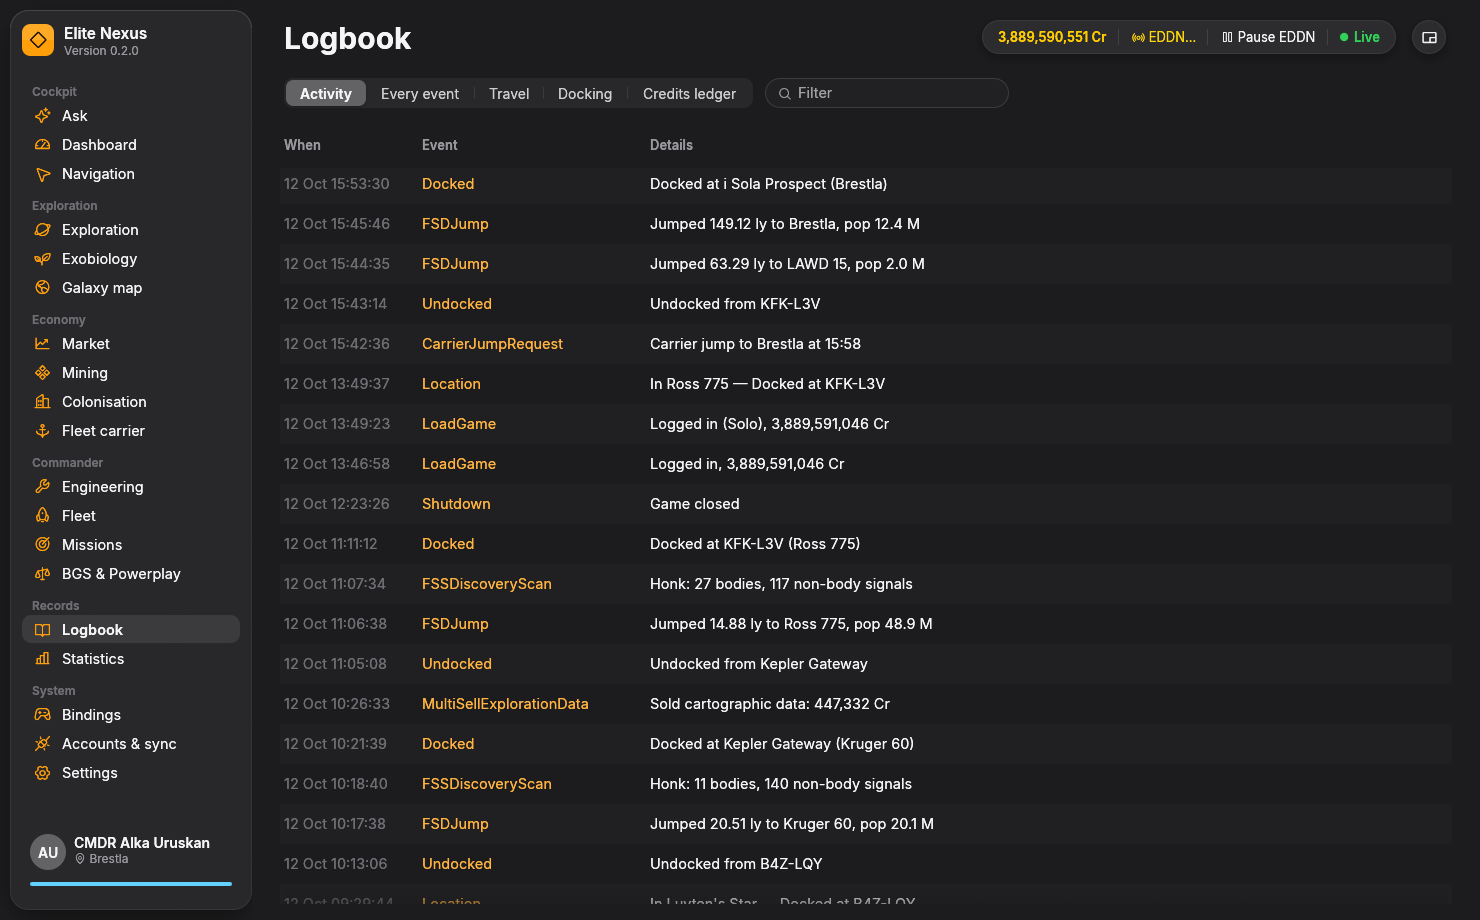
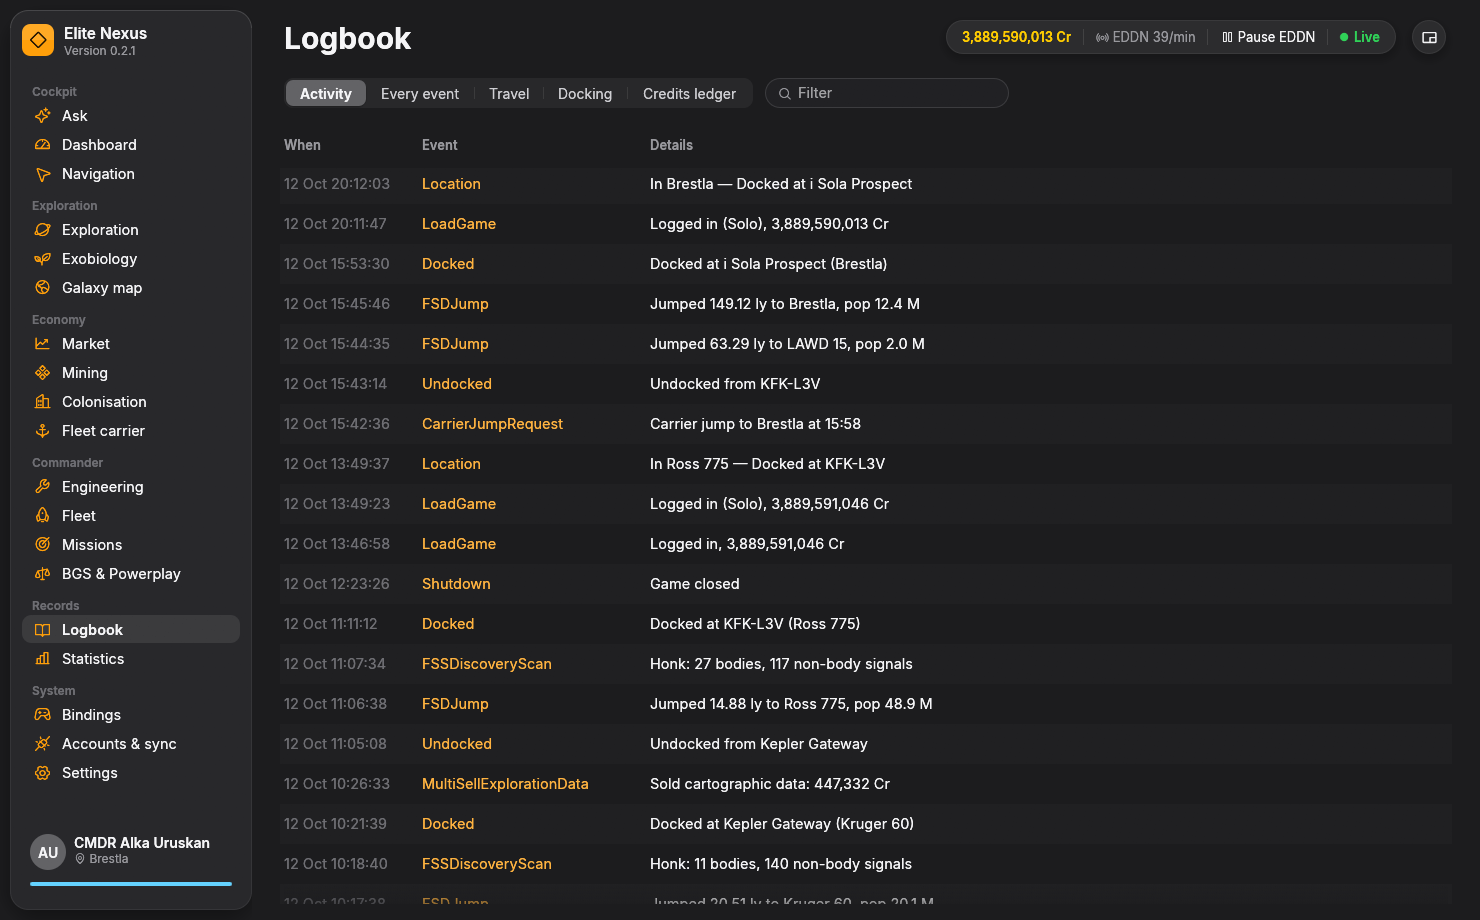
README: screenshots for every feature page, retaken on 0.2.1
Exploration, Exobiology (live sampling radar) and Navigation come from a
replay of a real 2026-09-29 exobiology landing; Engineering shows a sample
wishlist. Adds Bindings and Accounts & sync to the gallery.

diff --git a/README.md b/README.md
@@ -13,10 +13,13 @@ Pure Rust. No Python, no Node.js, no browser engine. One executable, GPU-rendere
 
 | | |
 |---|---|
+| ![Exobiology: live sampling radar with two samples, colony-range circles and "OK to sample"](docs/screenshots/exobiology.png) **Exobiology** — live sampling radar, colony range, species value | ![Exploration: every body in the system with value, mapped value and highlights](docs/screenshots/exploration.png) **Exploration** — every body, value now vs. mapped, highlights |
 | ![Ask: the AI co-pilot answering an exobiology question](docs/screenshots/ask.png) **Ask** — the AI co-pilot | ![Market: stations paying far above the galactic average](docs/screenshots/market.png) **Market** — abnormal prices across the galaxy |
-| ![Fleet: every ship with its full engineered loadout](docs/screenshots/fleet.png) **Fleet** — loadouts, engineering, one-click EDSY/Coriolis | ![Galaxy map: everywhere you've been, with your ship and carrier](docs/screenshots/galaxy-map.png) **Galaxy map** — your travels, ship and carrier |
-| ![Fleet carrier: tritium, finances, capacity and crew](docs/screenshots/carrier.png) **Fleet carrier** — tritium, finances, crew | ![Statistics: credits over time, income by category, jumps per day](docs/screenshots/statistics.png) **Statistics** — credits, income, jumps |
-| ![Logbook: every journal event, searchable](docs/screenshots/logbook.png) **Logbook** — every journal event, searchable | |
+| ![Navigation: the plotted route with star classes, scoopable stars and jump distances](docs/screenshots/navigation.png) **Navigation** — route, fuel stars, next system to the clipboard | ![Engineering: blueprint wishlist and the materials shopping list](docs/screenshots/engineering.png) **Engineering** — wishlist and shopping list |
+| ![Fleet: every ship with its full engineered loadout](docs/screenshots/fleet.png) **Fleet** — loadouts, engineering, one-click EDSY/Coriolis | ![Fleet carrier: tritium, finances, capacity and crew](docs/screenshots/carrier.png) **Fleet carrier** — tritium, finances, crew |
+| ![Galaxy map: everywhere you've been, with your ship and carrier](docs/screenshots/galaxy-map.png) **Galaxy map** — your travels, ship and carrier | ![Statistics: credits over time, income by category, jumps per day](docs/screenshots/statistics.png) **Statistics** — credits, income, jumps |
+| ![Logbook: every journal event, searchable](docs/screenshots/logbook.png) **Logbook** — every journal event, searchable | ![Bindings: active presets, conflicts and every bound action](docs/screenshots/bindings.png) **Bindings** — presets, conflicts, reference card |
+| ![Accounts & sync: EDDN, EDSM, Inara and EDAstro, all opt-in](docs/screenshots/accounts.png) **Accounts & sync** — EDDN, EDSM, Inara, EDAstro | |
 
 ## Why it's faster
 
